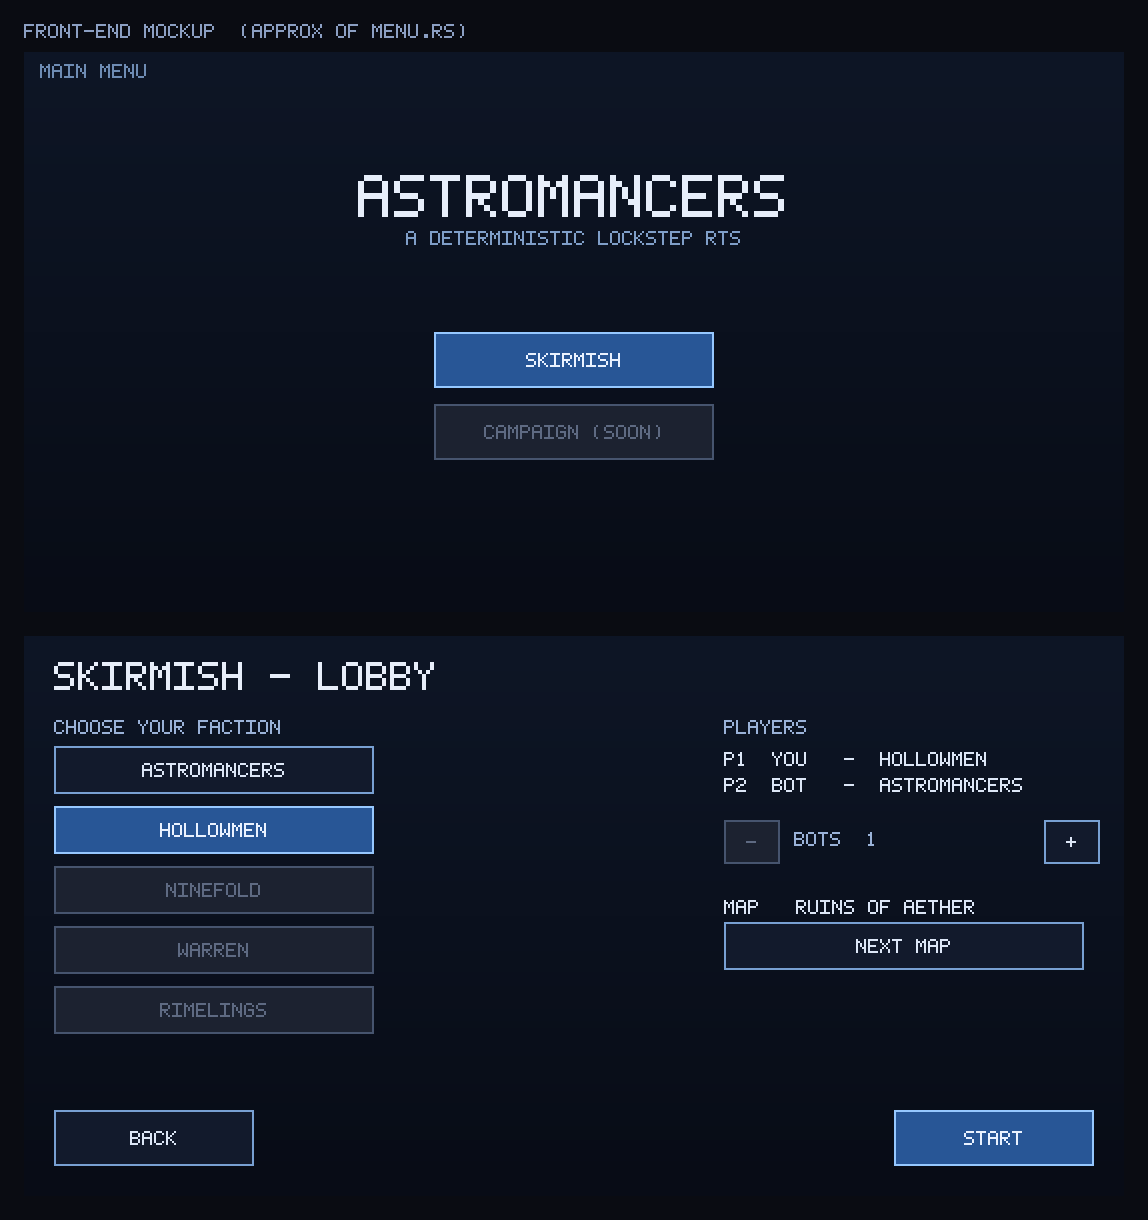
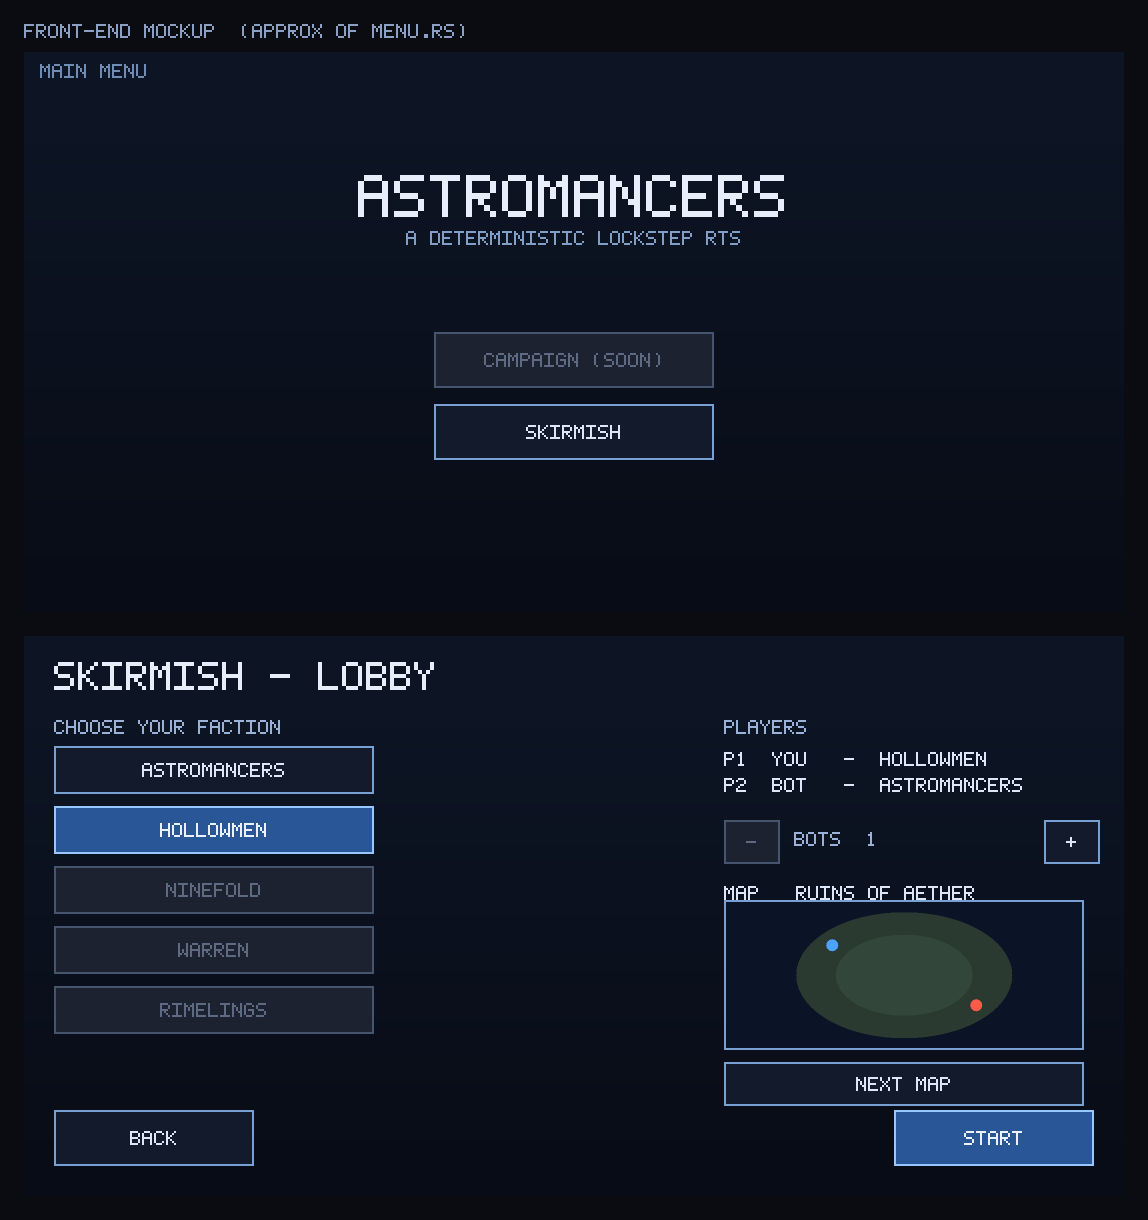
Lobby: add a map preview thumbnail; put Campaign on top of the menu
- menu.rs: the main menu now lists CAMPAIGN (greyed) above SKIRMISH. The lobby
  draws a stylized map-preview thumbnail under the MAP label - sea backdrop,
  landmasses, and the player (blue) / enemy (red) start markers, one arrangement
  per map - clipped to its box; NEXT MAP moved below it.
- render_menu_mock.py: mirror both changes in the review mockup.

https://claude.ai/code/session_01NRLhyC1ekp7yQazk57daaJ

Changed region(s): [[0.6098, 0.7164, 0.9451, 0.9033], [0.3659, 0.2492, 0.6402, 0.3738]]

diff --git a/apps/client/src/menu.rs b/apps/client/src/menu.rs
@@ -116,23 +116,24 @@ mod web {
             Screen::Menu => {
                 let bw = 280.0;
                 let bx = (w - bw) / 2.0;
+                // Campaign sits on top (greyed, not yet playable); Skirmish below.
                 v.push(btn(
-                    Click::Skirmish,
+                    Click::None,
                     bx,
                     h * 0.46,
                     bw,
                     56.0,
-                    "SKIRMISH",
-                    true,
+                    "CAMPAIGN  (SOON)",
+                    false,
                 ));
                 v.push(btn(
-                    Click::None,
+                    Click::Skirmish,
                     bx,
                     h * 0.46 + 72.0,
                     bw,
                     56.0,
-                    "CAMPAIGN  (SOON)",
-                    false,
+                    "SKIRMISH",
+                    true,
                 ));
             }
             Screen::Lobby => {
@@ -170,12 +171,13 @@ mod web {
                     "+",
                     lobby.bots < 3,
                 ));
+                // Map preview thumbnail is drawn at y=336 (h=190); button below.
                 v.push(btn(
                     Click::NextMap,
                     rx,
-                    360.0,
+                    548.0,
                     380.0,
-                    48.0,
+                    44.0,
                     "NEXT MAP",
                     true,
                 ));
@@ -229,6 +231,55 @@ mod web {
         ctx.set_text_align("center");
         ctx.set_text_baseline("middle");
         let _ = ctx.fill_text(&b.label, b.x + b.w / 2.0, b.y + b.h / 2.0);
+    }
+
+    /// A stylized thumbnail of the chosen map: sea/space backdrop, landmasses,
+    /// and the player (blue) vs enemy (red) start positions. Placeholder art, one
+    /// arrangement per map index.
+    fn draw_map_preview(ctx: &Ctx, x: f64, y: f64, w: f64, h: f64, map: usize) {
+        use std::f64::consts::TAU;
+        // Frame + sea.
+        ctx.set_fill_style_str("#0a1426");
+        ctx.fill_rect(x, y, w, h);
+        // Clip the contents to the box so landmasses don't spill over the panel.
+        ctx.save();
+        ctx.begin_path();
+        ctx.rect(x, y, w, h);
+        ctx.clip();
+        // Landmasses + base markers, per map.
+        let land = "#2a3a30";
+        let blob = |cx: f64, cy: f64, r: f64, col: &str| {
+            ctx.set_fill_style_str(col);
+            ctx.begin_path();
+            let _ = ctx.ellipse(cx, cy, r, r * 0.78, 0.0, 0.0, TAU);
+            ctx.fill();
+        };
+        if map == 0 {
+            // Ruins of Aether: one central island, bases NW / SE.
+            blob(x + w * 0.5, y + h * 0.5, w * 0.34, land);
+            blob(x + w * 0.5, y + h * 0.5, w * 0.22, "#33463a");
+        } else {
+            // Frozen Expanse: two icy shelves, bases W / E.
+            blob(x + w * 0.28, y + h * 0.5, w * 0.22, "#2f3f4c");
+            blob(x + w * 0.72, y + h * 0.5, w * 0.22, "#2f3f4c");
+            blob(x + w * 0.5, y + h * 0.5, w * 0.12, "#33414c");
+        }
+        let bases = if map == 0 {
+            [(0.30, 0.30, "#4aa3ff"), (0.70, 0.70, "#ff5a4a")]
+        } else {
+            [(0.22, 0.5, "#4aa3ff"), (0.78, 0.5, "#ff5a4a")]
+        };
+        for (fx, fy, col) in bases {
+            ctx.set_fill_style_str(col);
+            ctx.begin_path();
+            let _ = ctx.arc(x + w * fx, y + h * fy, 6.0, 0.0, TAU);
+            ctx.fill();
+        }
+        ctx.restore();
+        // Border.
+        ctx.set_stroke_style_str("rgba(120,160,210,0.9)");
+        ctx.set_line_width(1.5);
+        ctx.stroke_rect(x, y, w, h);
     }
 
     pub fn draw(screen: Screen, lobby: &Lobby) {
@@ -288,7 +339,15 @@ mod web {
                 ctx.set_font("bold 16px monospace");
                 let _ = ctx.fill_text(&format!("BOTS: {}", lobby.bots), rx + 70.0, 278.0);
                 let map = MAPS[lobby.map as usize % MAPS.len()];
-                let _ = ctx.fill_text(&format!("MAP:  {map}"), rx, 344.0);
+                let _ = ctx.fill_text(&format!("MAP:  {map}"), rx, 326.0);
+                draw_map_preview(
+                    &ctx,
+                    rx,
+                    336.0,
+                    380.0,
+                    190.0,
+                    lobby.map as usize % MAPS.len(),
+                );
             }
             Screen::InGame => {}
         }

diff --git a/assets/render_menu_mock.py b/assets/render_menu_mock.py
@@ -34,6 +34,29 @@ def button(cv, x, y, w, h, label, state, scale=2 * SS):
     text(cv, x + (w - lw) // 2, y + (h - 7 * scale) // 2, label, scale, txt)
 
 
+def disc(cv, cx, cy, rx, ry, col, clip):
+    cx0, cy0, cx1, cy1 = clip
+    for yy in range(max(int(cy - ry), cy0), min(int(cy + ry) + 1, cy1)):
+        for xx in range(max(int(cx - rx), cx0), min(int(cx + rx) + 1, cx1)):
+            if ((xx - cx) / rx) ** 2 + ((yy - cy) / ry) ** 2 <= 1.0:
+                cv.set(xx, yy, col)
+
+
+def map_preview(cv, x, y, w, h, mp):
+    border_rect(cv, x, y, w, h, (10, 20, 38), (120, 160, 210))
+    clip = (int(x + 2 * SS), int(y + 2 * SS), int(x + w - 2 * SS), int(y + h - 2 * SS))
+    if mp == 0:
+        disc(cv, x + w * 0.5, y + h * 0.5, w * 0.30, h * 0.42, (42, 58, 48), clip)
+        disc(cv, x + w * 0.5, y + h * 0.5, w * 0.19, h * 0.27, (51, 70, 58), clip)
+        disc(cv, x + w * 0.30, y + h * 0.30, 6 * SS, 6 * SS, (74, 163, 255), clip)
+        disc(cv, x + w * 0.70, y + h * 0.70, 6 * SS, 6 * SS, (255, 90, 74), clip)
+    else:
+        disc(cv, x + w * 0.28, y + h * 0.5, w * 0.20, h * 0.34, (47, 63, 76), clip)
+        disc(cv, x + w * 0.72, y + h * 0.5, w * 0.20, h * 0.34, (47, 63, 76), clip)
+        disc(cv, x + w * 0.22, y + h * 0.5, 6 * SS, 6 * SS, (74, 163, 255), clip)
+        disc(cv, x + w * 0.78, y + h * 0.5, 6 * SS, 6 * SS, (255, 90, 74), clip)
+
+
 def panel_bg(cv, x0, y0, x1, y1):
     h = y1 - y0
     for y in range(y0, y1):
@@ -54,8 +77,8 @@ def main_menu(cv, ox, oy, w, h):
     text(cv, ox + (w - text_w(sub, 2 * SS)) // 2, oy + int(h * 0.22) + 56 * SS, sub, 2 * SS, (127, 158, 200))
     bw = 280 * SS
     bx = ox + (w - bw) // 2
-    button(cv, bx, oy + int(h * 0.50), bw, 56 * SS, "SKIRMISH", SELECTED)
-    button(cv, bx, oy + int(h * 0.50) + 72 * SS, bw, 56 * SS, "CAMPAIGN (SOON)", DISABLED)
+    button(cv, bx, oy + int(h * 0.50), bw, 56 * SS, "CAMPAIGN (SOON)", DISABLED)
+    button(cv, bx, oy + int(h * 0.50) + 72 * SS, bw, 56 * SS, "SKIRMISH", NORMAL)
 
 
 def lobby(cv, ox, oy, w, h):
@@ -77,8 +100,9 @@ def lobby(cv, ox, oy, w, h):
     text(cv, rx + 70 * SS, oy + 196 * SS, "BOTS: 1", 2 * SS, (154, 178, 216))
     button(cv, rx, oy + 184 * SS, 56 * SS, 44 * SS, "-", DISABLED)
     button(cv, rx + 320 * SS, oy + 184 * SS, 56 * SS, 44 * SS, "+", NORMAL)
-    text(cv, rx, oy + 264 * SS, "MAP:  RUINS OF AETHER", 2 * SS, (220, 230, 246))
-    button(cv, rx, oy + 286 * SS, 360 * SS, 48 * SS, "NEXT MAP", NORMAL)
+    text(cv, rx, oy + 250 * SS, "MAP:  RUINS OF AETHER", 2 * SS, (220, 230, 246))
+    map_preview(cv, rx, oy + 264 * SS, 360 * SS, 150 * SS, 0)
+    button(cv, rx, oy + 264 * SS + 162 * SS, 360 * SS, 44 * SS, "NEXT MAP", NORMAL)
 
     button(cv, ox + 30 * SS, oy + h - 86 * SS, 200 * SS, 56 * SS, "BACK", NORMAL)
     button(cv, ox + w - 230 * SS, oy + h - 86 * SS, 200 * SS, 56 * SS, "START", SELECTED)
